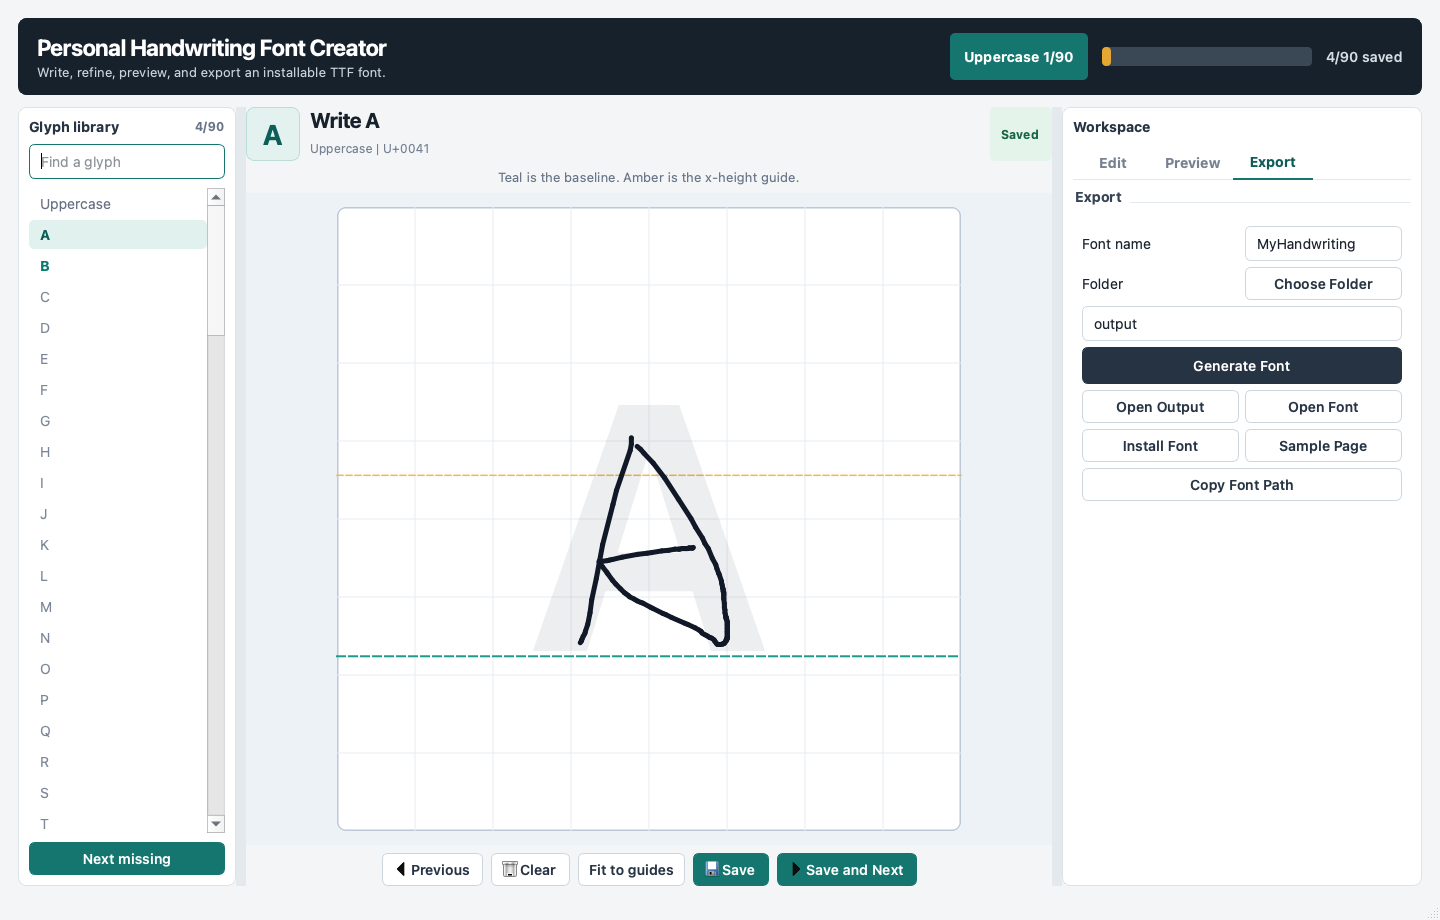
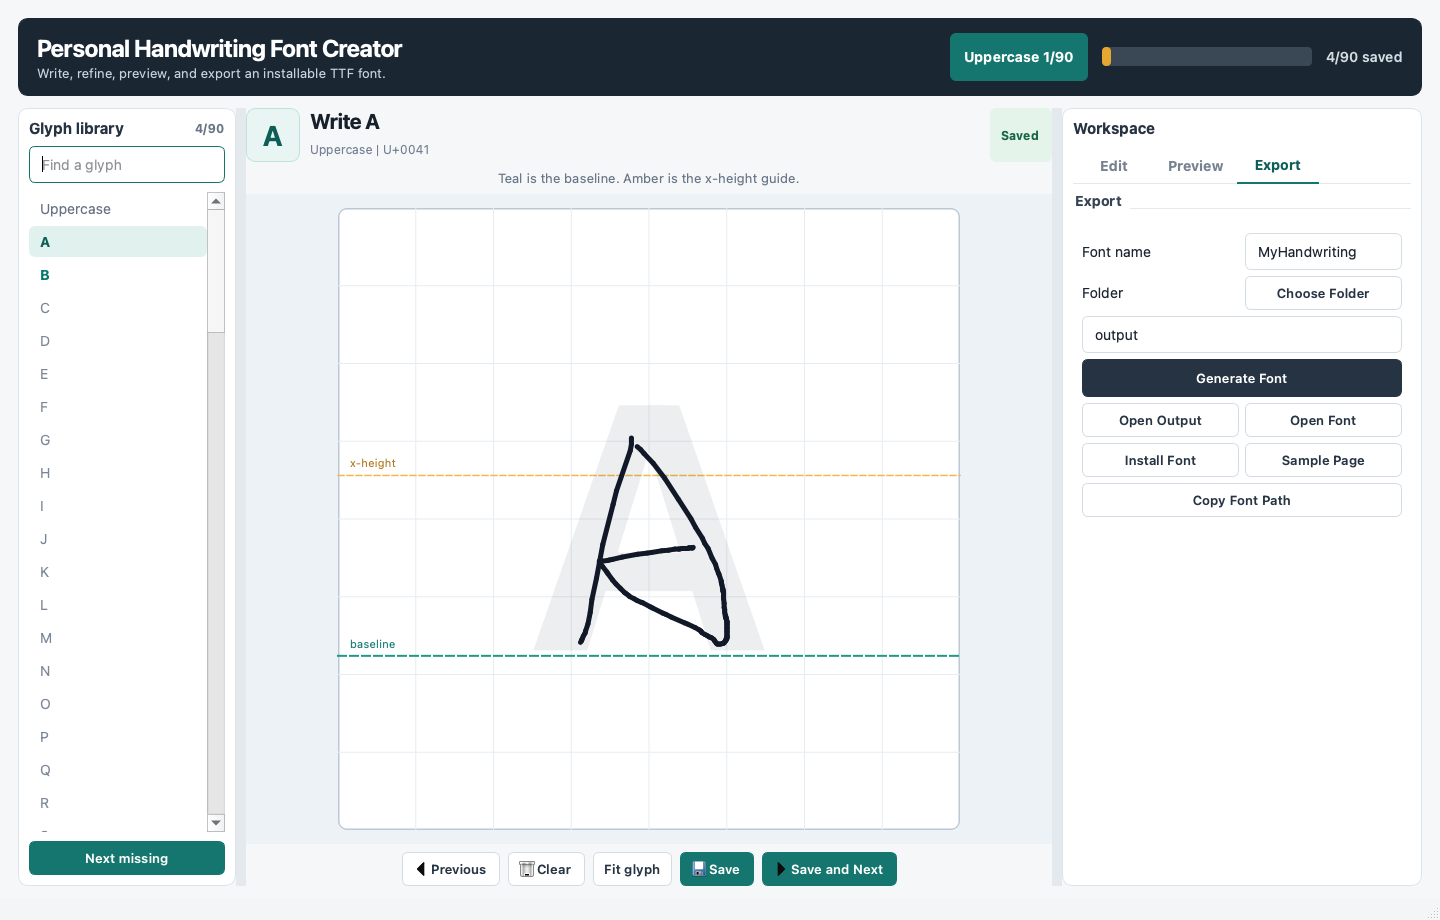
Refine editor controls and screenshots

diff --git a/src/gui/styles.py b/src/gui/styles.py
@@ -3,7 +3,7 @@ from __future__ import annotations
 
 APP_STYLESHEET = """
 QMainWindow {
-    background: #f3f5f7;
+    background: #f5f7f9;
 }
 
 QWidget {
@@ -12,14 +12,14 @@ QWidget {
 }
 
 QFrame#Header {
-    background: #17212b;
-    border: 1px solid #17212b;
-    border-radius: 8px;
+    background: #1a2733;
+    border: 1px solid #1a2733;
+    border-radius: 10px;
 }
 
 QLabel#AppTitle {
     color: #ffffff;
-    font-size: 23px;
+    font-size: 24px;
     font-weight: 700;
 }
 
@@ -31,7 +31,7 @@ QLabel#AppSubtitle {
 QLabel#StepLabel {
     color: #ffffff;
     background: #15766f;
-    border-radius: 5px;
+    border-radius: 6px;
     padding: 6px 10px;
     font-weight: 700;
 }
@@ -53,9 +53,9 @@ QLabel#ProgressText {
 }
 
 QLabel#GlyphIdentity {
-    background: #e3f2ef;
-    border: 1px solid #b9ddd7;
-    border-radius: 8px;
+    background: #e9f5f2;
+    border: 1px solid #c0e2db;
+    border-radius: 9px;
     color: #0d5d58;
     font-size: 28px;
     font-weight: 700;
@@ -71,7 +71,7 @@ QLabel#GlyphDetail {
 }
 
 QLabel#GlyphStatus {
-    border-radius: 5px;
+    border-radius: 6px;
     font-size: 12px;
     font-weight: 700;
     padding: 5px 8px;
@@ -97,8 +97,8 @@ QGroupBox {
     background: transparent;
     border: 0;
     border-top: 1px solid #e4e9ee;
-    margin-top: 14px;
-    padding: 14px 0 0 0;
+    margin-top: 16px;
+    padding: 15px 0 0 0;
     font-weight: 700;
 }
 
@@ -108,17 +108,26 @@ QGroupBox::title {
     left: 0;
     padding: 0 6px 0 0;
     color: #354353;
+    font-size: 12px;
 }
 
 QFrame#Panel {
     background: #ffffff;
-    border: 1px solid #dbe2e8;
-    border-radius: 8px;
+    border: 1px solid #dce4ea;
+    border-radius: 10px;
 }
 
 QLabel#PanelTitle {
     color: #263342;
     font-weight: 700;
+    font-size: 15px;
+}
+
+QLabel#SectionLabel {
+    color: #7a8795;
+    font-size: 11px;
+    font-weight: 700;
+    padding-top: 4px;
 }
 
 QListWidget {
@@ -128,8 +137,8 @@ QListWidget {
 }
 
 QListWidget::item {
-    border-radius: 5px;
-    padding: 6px 8px;
+    border-radius: 6px;
+    padding: 7px 8px;
     margin: 1px 0;
 }
 
@@ -140,9 +149,9 @@ QListWidget::item:selected {
 
 QLineEdit {
     background: #ffffff;
-    border: 1px solid #cfd7df;
+    border: 1px solid #d5dde4;
     border-radius: 6px;
-    padding: 7px 9px;
+    padding: 8px 10px;
     selection-background-color: #15766f;
 }
 
@@ -152,16 +161,18 @@ QLineEdit:focus {
 
 QPushButton {
     background: #ffffff;
-    border: 1px solid #ccd6df;
+    border: 1px solid #d2dbe3;
     border-radius: 6px;
+    min-height: 18px;
     padding: 7px 10px;
+    font-size: 13px;
     font-weight: 600;
     color: #273444;
 }
 
 QPushButton:hover {
-    background: #f3f7f8;
-    border-color: #9eb0bc;
+    background: #f0f7f6;
+    border-color: #95b8b2;
 }
 
 QPushButton:pressed {
@@ -197,6 +208,22 @@ QPushButton#ExportButton {
     padding: 9px 12px;
 }
 
+QToolButton#ToolIconButton {
+    background: #ffffff;
+    border: 1px solid #d2dbe3;
+    border-radius: 6px;
+    padding: 5px;
+}
+
+QToolButton#ToolIconButton:hover {
+    background: #eef7f5;
+    border-color: #93bcb5;
+}
+
+QToolButton#ToolIconButton:pressed {
+    background: #dcefeb;
+}
+
 QPushButton#ExportButton:hover {
     background: #18232e;
 }
@@ -212,7 +239,7 @@ QTabBar::tab {
     border: 0;
     color: #778291;
     min-width: 62px;
-    padding: 8px 9px;
+    padding: 9px 10px;
     font-weight: 700;
 }
 

diff --git a/src/gui/main_window.py b/src/gui/main_window.py
@@ -30,6 +30,7 @@ from PyQt6.QtWidgets import (
     QStyle,
     QSplitter,
     QTabWidget,
+    QToolButton,
     QVBoxLayout,
     QWidget,
     QWizard,
@@ -400,7 +401,7 @@ class MainWindow(QMainWindow):
         self.quick_save_button.setObjectName("PrimaryButton")
         self.quick_next_button = QPushButton("Save and Next")
         self.quick_next_button.setObjectName("PrimaryButton")
-        self.quick_fit_button = QPushButton("Fit to guides")
+        self.quick_fit_button = QPushButton("Fit glyph")
         self.quick_clear_button = QPushButton("Clear")
 
         self.quick_previous_button.clicked.connect(self._go_previous)
@@ -474,16 +475,25 @@ class MainWindow(QMainWindow):
         self.clear_button = QPushButton("Clear")
         self.undo_button = QPushButton("Undo")
         self.redo_button = QPushButton("Redo")
-        self.save_button = QPushButton("Save Character")
-        self.previous_button = QPushButton("Previous")
-        self.next_button = QPushButton("Next")
         self.center_button = QPushButton("Center")
         self.scale_up_button = QPushButton("Scale +")
         self.scale_down_button = QPushButton("Scale -")
-        self.left_button = QPushButton("Left")
-        self.right_button = QPushButton("Right")
-        self.up_button = QPushButton("Up")
-        self.down_button = QPushButton("Down")
+        self.left_button = self._make_icon_button(
+            QStyle.StandardPixmap.SP_ArrowLeft,
+            "Move glyph left. Hold Shift with an arrow key for a larger move.",
+        )
+        self.right_button = self._make_icon_button(
+            QStyle.StandardPixmap.SP_ArrowRight,
+            "Move glyph right. Hold Shift with an arrow key for a larger move.",
+        )
+        self.up_button = self._make_icon_button(
+            QStyle.StandardPixmap.SP_ArrowUp,
+            "Move glyph up. Hold Shift with an arrow key for a larger move.",
+        )
+        self.down_button = self._make_icon_button(
+            QStyle.StandardPixmap.SP_ArrowDown,
+            "Move glyph down. Hold Shift with an arrow key for a larger move.",
+        )
         self.preview_button = QPushButton("Refresh preview")
         self.generate_button = QPushButton("Generate Font")
         self.generate_button.setObjectName("ExportButton")
@@ -507,9 +517,6 @@ class MainWindow(QMainWindow):
         self.clear_button.clicked.connect(self.canvas.clear)
         self.undo_button.clicked.connect(self.canvas.undo)
         self.redo_button.clicked.connect(self.canvas.redo)
-        self.save_button.clicked.connect(self._save_current_character)
-        self.previous_button.clicked.connect(self._go_previous)
-        self.next_button.clicked.connect(self._go_next)
         self.center_button.clicked.connect(self.canvas.center_strokes)
         self.scale_up_button.clicked.connect(lambda: self.canvas.scale_strokes(1.08))
         self.scale_down_button.clicked.connect(lambda: self.canvas.scale_strokes(0.92))
@@ -532,21 +539,23 @@ class MainWindow(QMainWindow):
         self._set_button_icon(self.clear_button, QStyle.StandardPixmap.SP_TrashIcon, "Remove all strokes from this glyph.")
         self._set_button_icon(self.undo_button, QStyle.StandardPixmap.SP_ArrowBack, "Undo the last edit.")
         self._set_button_icon(self.redo_button, QStyle.StandardPixmap.SP_ArrowForward, "Redo the last edit.")
-        self._set_button_icon(self.save_button, QStyle.StandardPixmap.SP_DialogSaveButton, "Save this glyph as editable vector strokes.")
 
         refine_layout.addWidget(self.clear_button, 0, 0)
         refine_layout.addWidget(self.undo_button, 0, 1)
         refine_layout.addWidget(self.redo_button, 0, 2)
-        refine_layout.addWidget(self.save_button, 1, 0, 1, 3)
-        refine_layout.addWidget(self.previous_button, 2, 0)
-        refine_layout.addWidget(self.next_button, 2, 1, 1, 2)
-        refine_layout.addWidget(self.center_button, 3, 0)
-        refine_layout.addWidget(self.scale_up_button, 3, 1)
-        refine_layout.addWidget(self.scale_down_button, 3, 2)
-        refine_layout.addWidget(self.left_button, 4, 0)
-        refine_layout.addWidget(self.up_button, 4, 1)
-        refine_layout.addWidget(self.right_button, 4, 2)
-        refine_layout.addWidget(self.down_button, 5, 1)
+        position_label = QLabel("Position")
+        position_label.setObjectName("SectionLabel")
+        transform_label = QLabel("Scale")
+        transform_label.setObjectName("SectionLabel")
+        refine_layout.addWidget(position_label, 1, 0, 1, 3)
+        refine_layout.addWidget(self.left_button, 2, 0)
+        refine_layout.addWidget(self.up_button, 2, 1)
+        refine_layout.addWidget(self.right_button, 2, 2)
+        refine_layout.addWidget(self.down_button, 3, 1)
+        refine_layout.addWidget(transform_label, 4, 0, 1, 3)
+        refine_layout.addWidget(self.scale_down_button, 5, 0)
+        refine_layout.addWidget(self.center_button, 5, 1)
+        refine_layout.addWidget(self.scale_up_button, 5, 2)
 
         preview_box = QGroupBox("Font Preview")
         preview_layout = QVBoxLayout(preview_box)
@@ -638,6 +647,18 @@ class MainWindow(QMainWindow):
     ) -> None:
         button.setIcon(self.style().standardIcon(pixmap))
         button.setToolTip(tooltip)
+
+    def _make_icon_button(
+        self,
+        pixmap: QStyle.StandardPixmap,
+        tooltip: str,
+    ) -> QToolButton:
+        button = QToolButton()
+        button.setObjectName("ToolIconButton")
+        button.setIcon(self.style().standardIcon(pixmap))
+        button.setToolTip(tooltip)
+        button.setFixedSize(44, 32)
+        return button
 
     def _wrap_panel(self, title: str, widget: QWidget) -> QFrame:
         frame = QFrame()

diff --git a/src/gui/canvas.py b/src/gui/canvas.py
@@ -249,6 +249,14 @@ class HandwritingCanvas(QWidget):
         painter.setPen(midline_pen)
         painter.drawLine(QPointF(canvas_rect.left(), midline_y), QPointF(canvas_rect.right(), midline_y))
 
+        label_font = painter.font()
+        label_font.setPointSize(max(8, int(canvas_rect.width() / 78)))
+        painter.setFont(label_font)
+        painter.setPen(QColor("#b1791f"))
+        painter.drawText(QPointF(canvas_rect.left() + 12, midline_y - 8), "x-height")
+        painter.setPen(QColor("#177c73"))
+        painter.drawText(QPointF(canvas_rect.left() + 12, baseline_y - 8), "baseline")
+
     def _paint_target_character(self, painter: QPainter) -> None:
         painter.save()
         canvas_rect = self._canvas_rect()